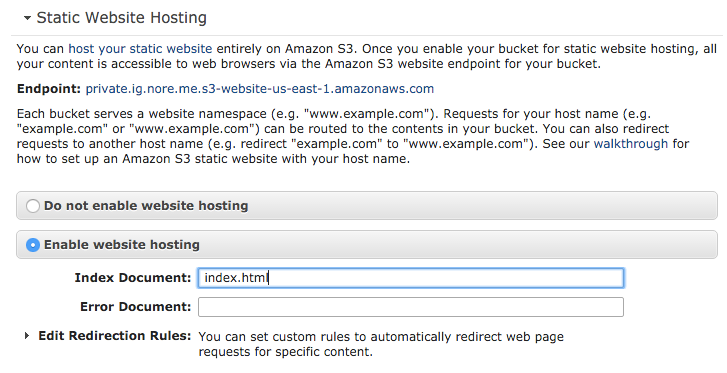
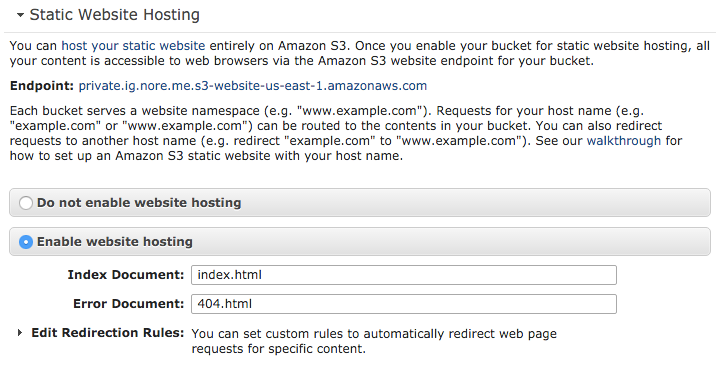
Mention the 404 file for the document

diff --git a/content/posts/2016-03-05-Private-Static-Site.md b/content/posts/2016-03-05-Private-Static-Site.md
@@ -4,6 +4,7 @@ slug:         "private-static-site-hosting"
 blog:         ig.nore.me  
 author:       Arjen Schwarz  
 Date:         2016-03-05T14:03:29+11:00
+lastmod:      2016-03-05T23:48:50+11:00
 categories:   ["Development"]
 Description:  "Today someone asked me if it's possible to host a Hugo site on AWS that is only accessible from their company IP. Of course it is, let me explain how."
 ---
@@ -27,7 +28,7 @@ So, now we have our bucket. First, we should enable the site hosting. This is an
 
 ![Enable hosting][enablehosting]
 
-For a Hugo site (and most other static sites), just select the **Enable website hosting** section and fill in `index.html` as the Index document.
+For a Hugo site (and most other static sites), just select the **Enable website hosting** section and fill in `index.html` as the Index document and `404.html` as the Error document.
 
 Now a site can be hosted on the bucket, but we're not done yet. You now need to limit the access. By default S3 buckets are limited to access only be the person who created it, but we want to whitelist one IP to have access to the site as well. We'll do this using a Bucket policy. You can find this in the section about Permissions, which is at the top of the properties.
 
